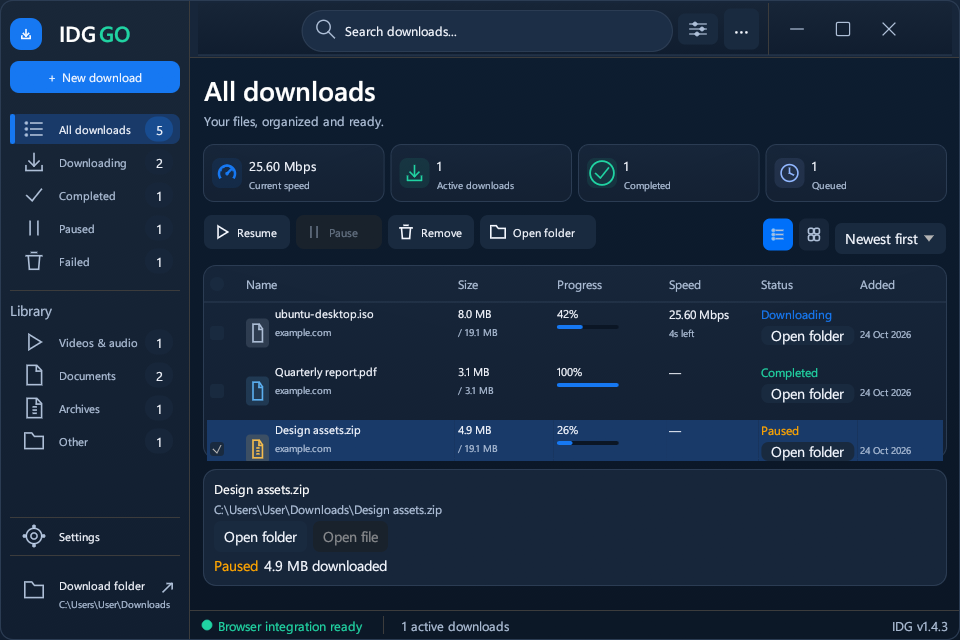
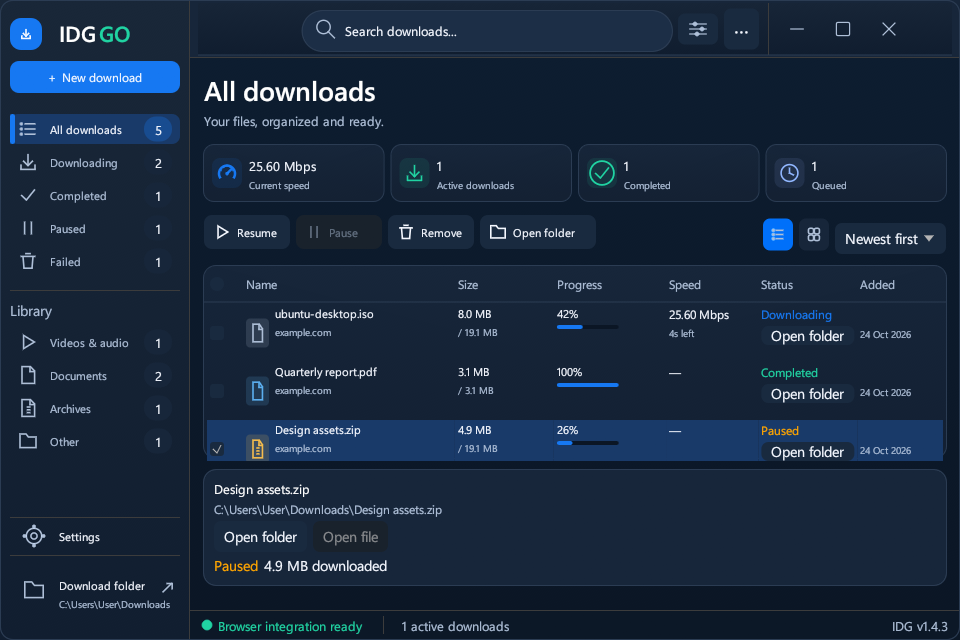
Keep sidebar category labels clear of count badges

diff --git a/src/app/library.rs b/src/app/library.rs
@@ -472,26 +472,51 @@ impl IDGApp {
                 draw_icon(
                     ui.painter(),
                     egui::Rect::from_center_size(
-                        egui::pos2(rect.left() + 24.0, rect.center().y),
-                        Vec2::splat(23.0),
+                        egui::pos2(
+                            rect.left() + if spacious { 24.0 } else { 18.0 },
+                            rect.center().y,
+                        ),
+                        Vec2::splat(if spacious { 23.0 } else { 20.0 }),
                     ),
                     nav_icon(category),
                     TEXT_DIM,
                 );
-                ui.painter().text(
+                let count = category.count(items).to_string();
+                let count_width = ui
+                    .painter()
+                    .layout_no_wrap(count.clone(), FontId::proportional(13.0), TEXT)
+                    .size()
+                    .x;
+                let badge_width = (count_width + 16.0).max(28.0);
+                let badge_height = rect.height().min(25.0);
+                let badge = egui::Rect::from_min_max(
                     egui::pos2(
-                        rect.left() + if spacious { 57.0 } else { 49.0 },
-                        rect.center().y,
+                        rect.right() - 8.0 - badge_width,
+                        rect.center().y - badge_height * 0.5,
                     ),
-                    egui::Align2::LEFT_CENTER,
-                    category.label(),
+                    egui::pos2(rect.right() - 8.0, rect.center().y + badge_height * 0.5),
+                );
+                let text_left = rect.left() + if spacious { 57.0 } else { 40.0 };
+                let label_rect = egui::Rect::from_min_max(
+                    egui::pos2(text_left, rect.top()),
+                    egui::pos2((badge.left() - 10.0).max(text_left), rect.bottom()),
+                );
+                let mut label = egui::text::LayoutJob::simple_singleline(
+                    category.label().to_owned(),
                     FontId::proportional(if spacious { 15.0 } else { 11.0 }),
                     if selected { TEXT } else { TEXT_DIM },
                 );
-                let badge = egui::Rect::from_center_size(
-                    egui::pos2(rect.right() - 21.0, rect.center().y),
-                    Vec2::new(28.0, 25.0),
-                );
+                label.wrap.max_width = label_rect.width();
+                label.wrap.max_rows = 1;
+                label.wrap.break_anywhere = true;
+                let galley = ui.painter().layout_job(label);
+                ui.painter()
+                    .with_clip_rect(label_rect.intersect(ui.clip_rect()))
+                    .galley(
+                        egui::pos2(text_left, rect.center().y - galley.size().y * 0.5),
+                        galley,
+                        if selected { TEXT } else { TEXT_DIM },
+                    );
                 ui.painter().rect_filled(
                     badge,
                     12.0,
@@ -504,10 +529,11 @@ impl IDGApp {
                 ui.painter().text(
                     badge.center(),
                     egui::Align2::CENTER_CENTER,
-                    category.count(items).to_string(),
+                    count,
                     FontId::proportional(13.0),
                     TEXT,
                 );
+                let response = response.on_hover_text(category.label());
                 qa_control(ui.ctx(), category.label(), response.rect);
                 response.widget_info(|| {
                     egui::WidgetInfo::labeled(egui::WidgetType::Button, true, category.label())

diff --git a/docs/fluent-qa.md b/docs/fluent-qa.md
@@ -168,3 +168,5 @@ The current renderer matrix has 21 cases, including the 960 x 640 list and same-
 ## Statistics icons and sidebar polish (v1.4.3 refresh)
 
 The compact layout now shows four 56-point cards with colored speed/download/completed/clock icons. The sidebar uses the bounded panel height directly instead of a scroll container; its navigation and footer fit at the supported preview sizes without a navigation scrollbar. Folder paths stay on one clipped line with the full path available on hover. The empty-state Add download button/dropdown and minimal-height fallback action are removed; sidebar/header/keyboard download actions remain. Settings shows the repository hyperlink beside Developed by Mustafa Ali. The 21-case renderer matrix and 35 interaction checks pass.
+
+The category-label overlap fix measures count text to size each badge, reserves a separate label area with a 10-point gap, and keeps the compact icon/text padding within the sidebar width. Long labels are limited to one line with the full label available on hover; badge height stays within its row. The actual 960 x 640 preview shows Videos & audio fully separated from its count. The renderer matrix and 35 interaction checks pass.

diff --git a/README.md b/README.md
@@ -348,4 +348,4 @@ Download history is saved under `%LOCALAPPDATA%/IDG/download-history.json`, incl
 
 Updates compare both the version and the published source build. A later 1.4.3 build triggers an alert with its fixes; the installed build is not repeatedly offered, and older releases are ignored. Release notes include a generated `IDG-BUILD` marker. Existing binaries without this logic need a one-time manual installation of this refresh. Windows Setup now uses Restart Manager's force-close fallback and disables automatic app restarting, so close-to-tray cannot leave installation waiting indefinitely. Setup's close-applications confirmation stops running transfers.
 
-The compact statistics use four colored icon cards. The sidebar fits without scrolling, and the empty-state Add download split button has been removed. Settings includes a GitHub source link next to **Developed by Mustafa Ali**.
+The compact statistics use four colored icon cards. The sidebar fits without scrolling, with clear separation between category labels and count badges, and the empty-state Add download split button has been removed. Settings includes a GitHub source link next to **Developed by Mustafa Ali**.

diff --git a/docs/release-notes.md b/docs/release-notes.md
@@ -1,5 +1,6 @@
 IDG v1.4.3 refresh fixes the compact desktop, browser transfer visibility, update detection and installer closing.
 
+- Fix sidebar category labels overlapping count badges: reserve a separate label area, keep a clear gap and size badges for their counts.
 - Restore colored statistics icons, fit sidebar navigation without a scrollbar, and remove the empty-state Add download split button.
 - Add GitHub source code beside Developed by Mustafa Ali in Settings.
 - Reduce the locked desktop to 960 x 640 logical pixels, capped to the monitor work area, with a compact sidebar and table.
